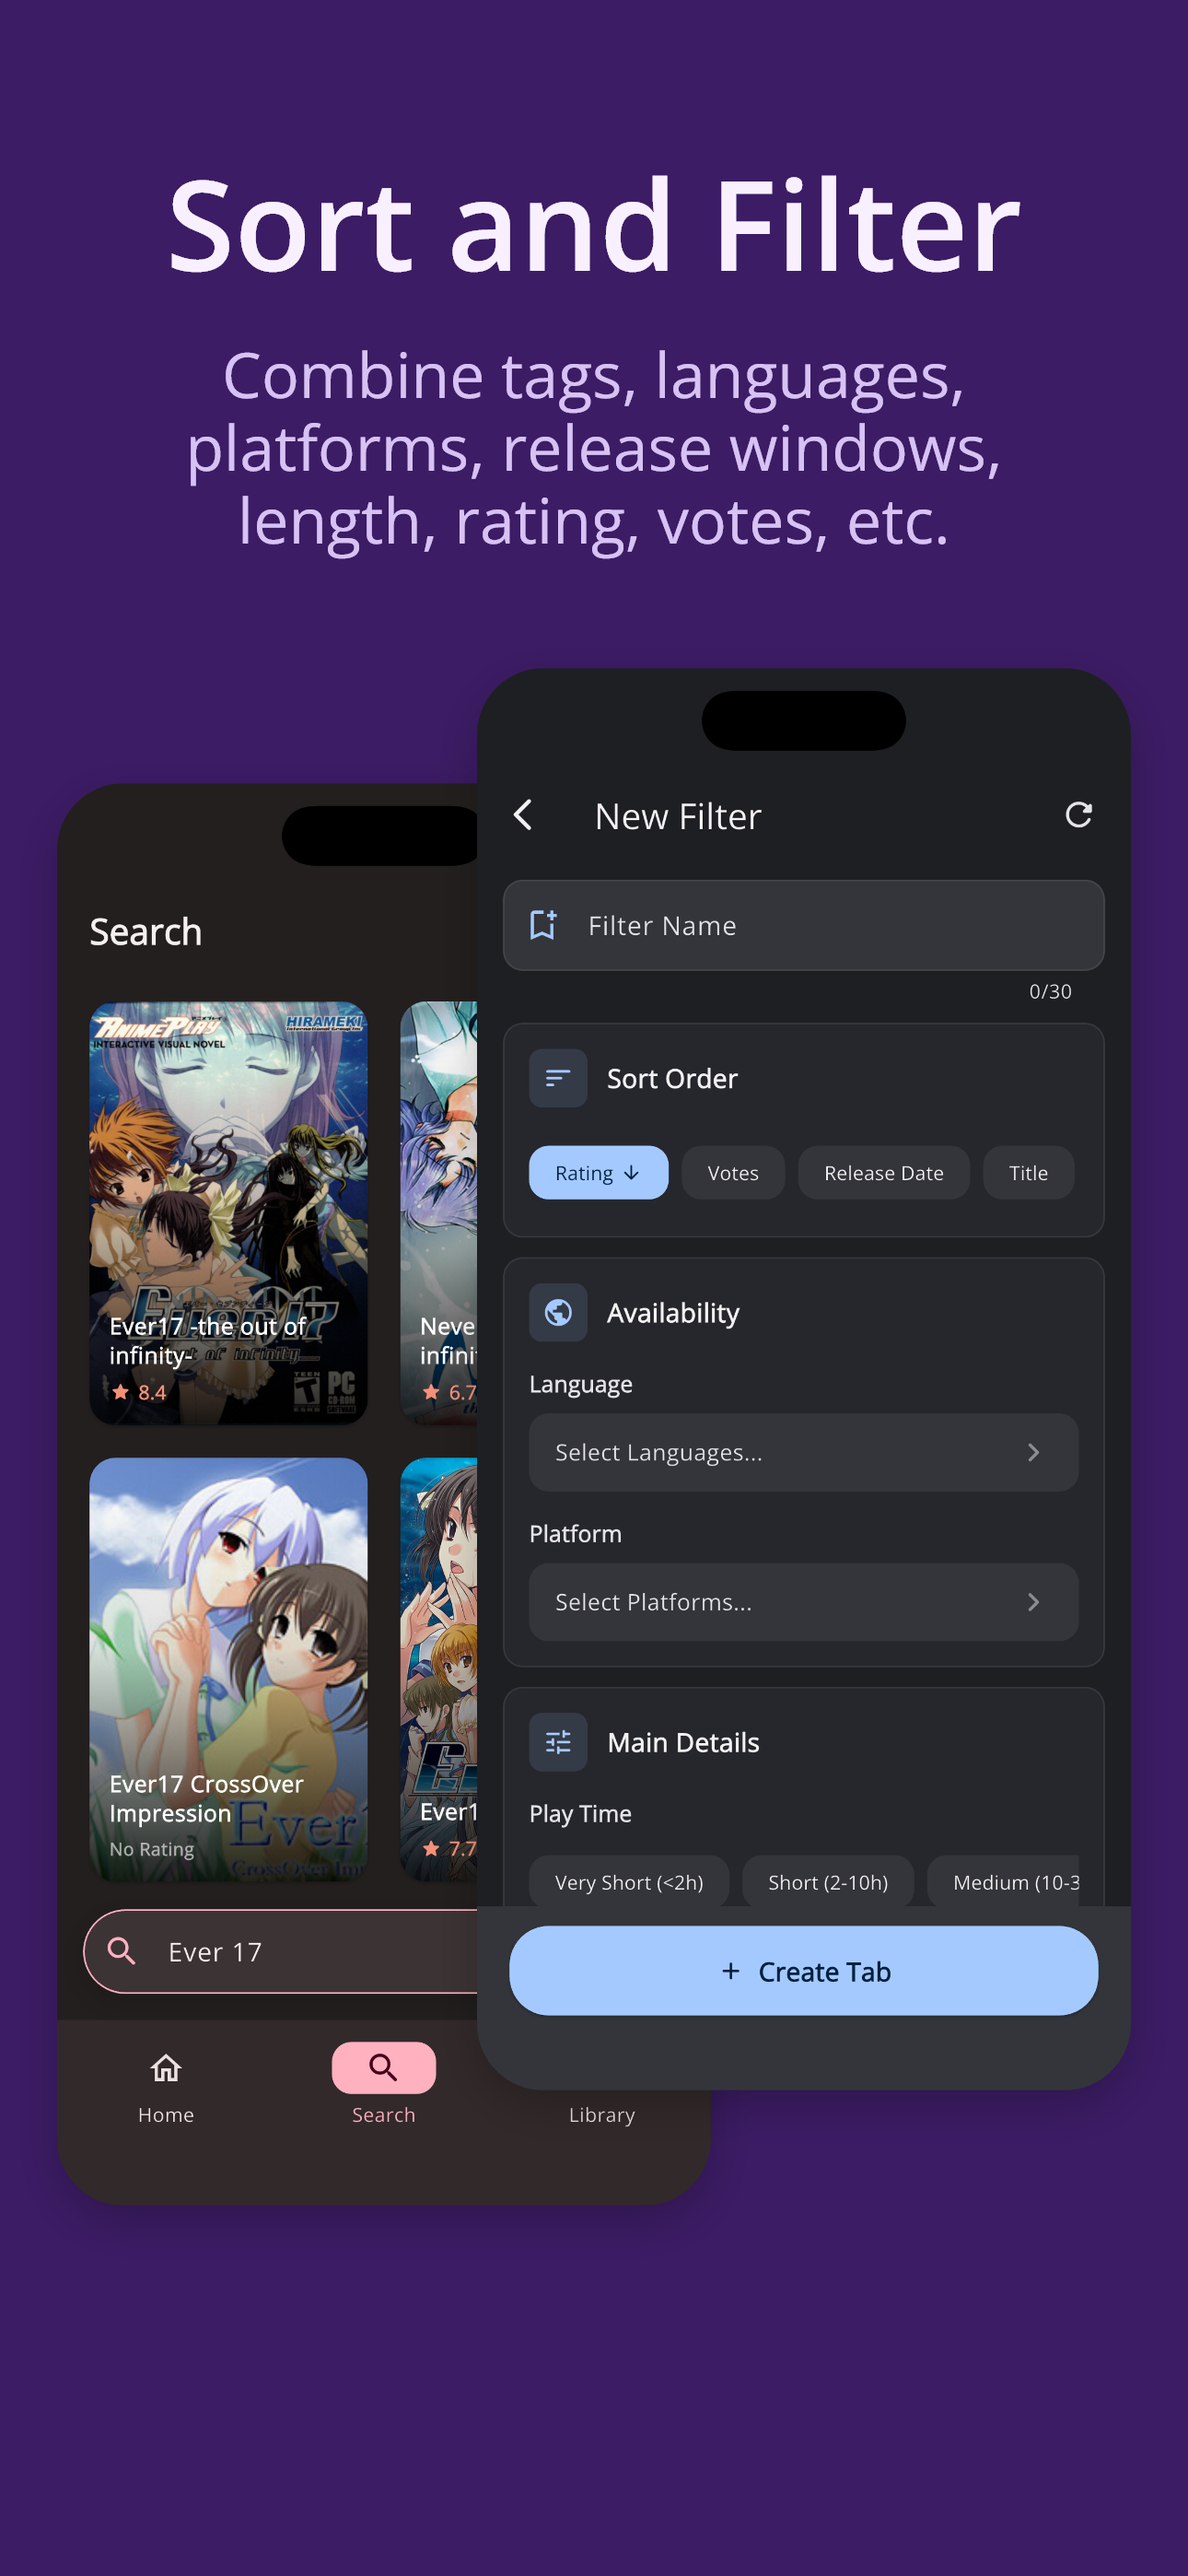
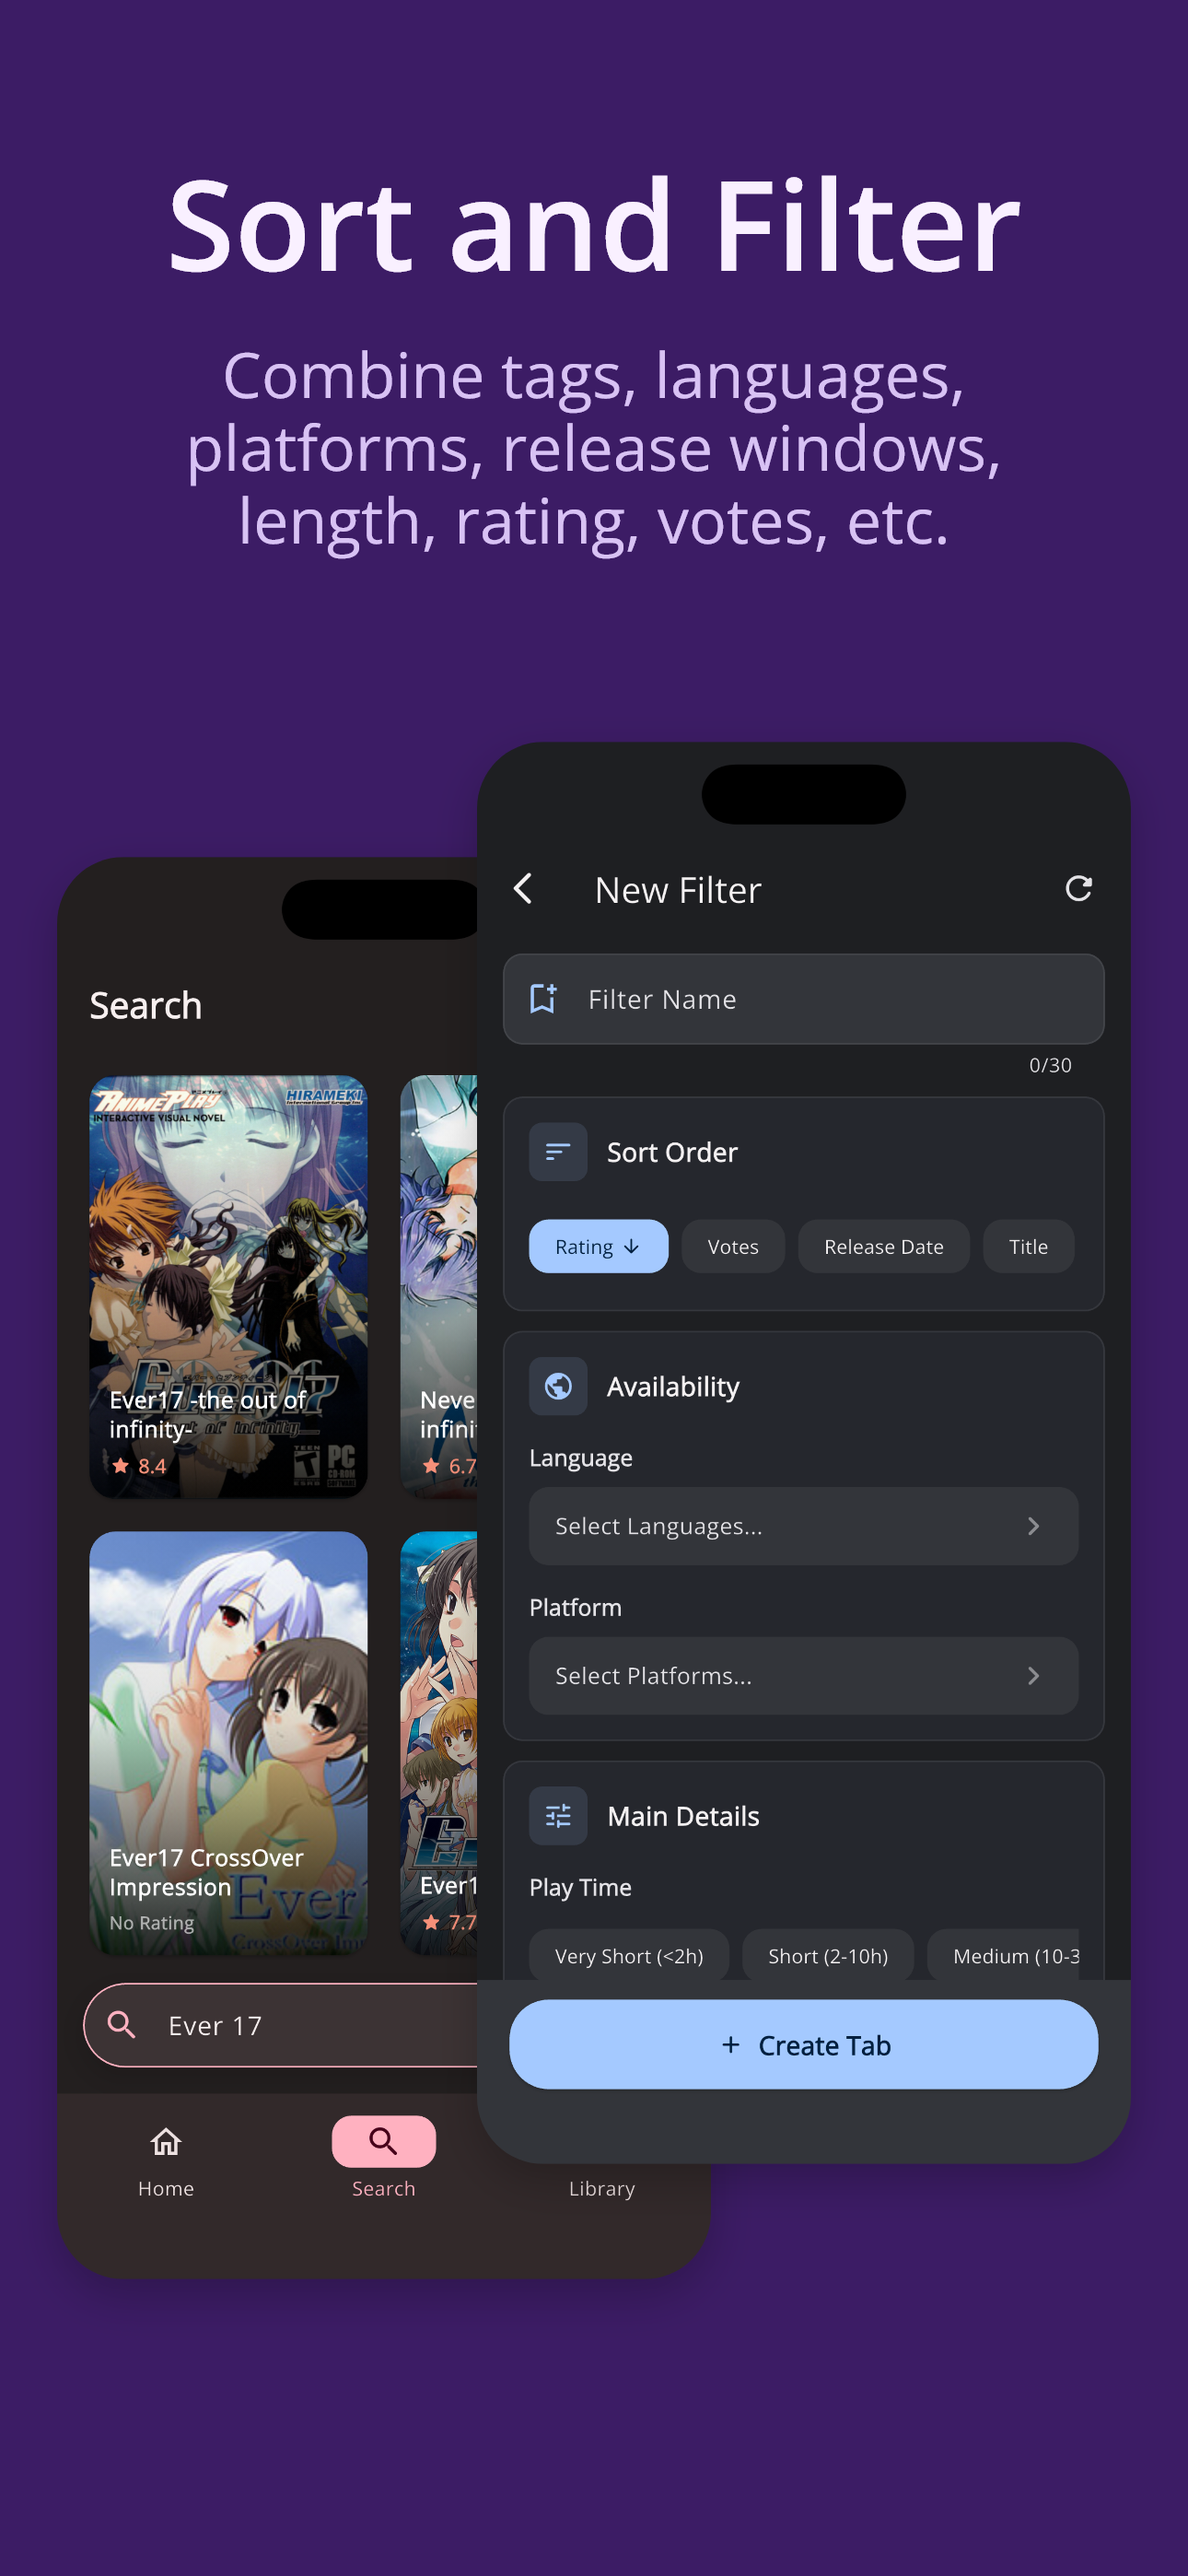
Refactor auth state

Changed region(s): [[0.031, 0.2489, 0.9612, 0.9024], [0.5891, 0.6534, 0.6202, 0.7157]]

diff --git a/tool/generate_app_store_images.dart b/tool/generate_app_store_images.dart
@@ -52,7 +52,7 @@ const appStoreImageConfig = <String, Object?>{
           'fit': 'contain',
           'position': <String, Object?>{
             'x': 62,
-            'y': 850,
+            'y': 930,
             'width': 710,
             'height': 1544,
           },
@@ -63,7 +63,7 @@ const appStoreImageConfig = <String, Object?>{
           'fit': 'contain',
           'position': <String, Object?>{
             'x': 518,
-            'y': 725,
+            'y': 805,
             'width': 710,
             'height': 1544,
           },
@@ -107,7 +107,7 @@ const appStoreImageConfig = <String, Object?>{
           'fit': 'contain',
           'position': <String, Object?>{
             'x': 62,
-            'y': 850,
+            'y': 930,
             'width': 710,
             'height': 1544,
           },
@@ -118,7 +118,7 @@ const appStoreImageConfig = <String, Object?>{
           'fit': 'contain',
           'position': <String, Object?>{
             'x': 518,
-            'y': 725,
+            'y': 805,
             'width': 710,
             'height': 1544,
           },
@@ -160,7 +160,7 @@ const appStoreImageConfig = <String, Object?>{
           'fit': 'contain',
           'position': <String, Object?>{
             'x': 62,
-            'y': 850,
+            'y': 930,
             'width': 710,
             'height': 1544,
           },
@@ -171,7 +171,7 @@ const appStoreImageConfig = <String, Object?>{
           'fit': 'contain',
           'position': <String, Object?>{
             'x': 518,
-            'y': 725,
+            'y': 805,
             'width': 710,
             'height': 1544,
           },
@@ -215,7 +215,7 @@ const appStoreImageConfig = <String, Object?>{
           'fit': 'contain',
           'position': <String, Object?>{
             'x': 62,
-            'y': 850,
+            'y': 930,
             'width': 710,
             'height': 1544,
           },
@@ -226,7 +226,7 @@ const appStoreImageConfig = <String, Object?>{
           'fit': 'contain',
           'position': <String, Object?>{
             'x': 518,
-            'y': 725,
+            'y': 805,
             'width': 710,
             'height': 1544,
           },
